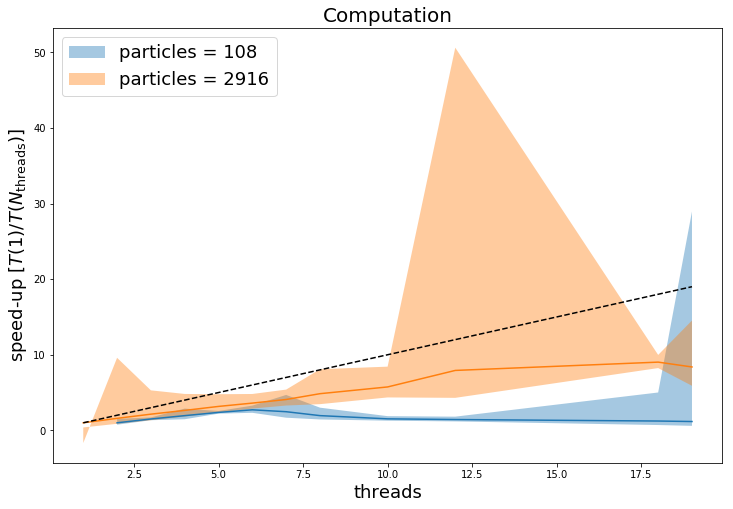
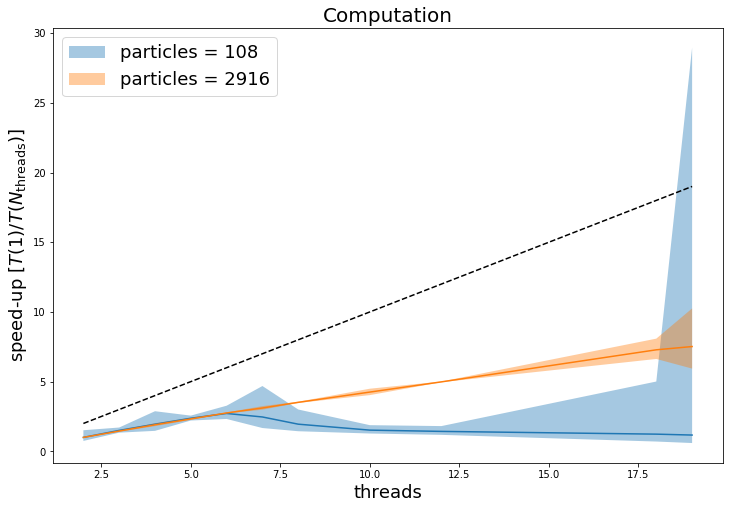
provided the correct plot for OpenMP's scaling and updated the README relative to OpenMP

diff --git a/README.md b/README.md
@@ -26,6 +26,6 @@ We compute the **strong scaling** by averaging over 10 runs number of threads, n
 
 We notice how, for a problem of small size (i.e. number of atoms = 108), there is a slight speedup up to 6 threads; afterwards, there is a noticeable decrease in the performance.
 
-On the contrary, for a problem of a bigger size (i.e. number of atoms = 2916), even though not ideal, the speedup increases quite evidently up to 12 threads and plateaus with 18 and 19 threads.
+On the contrary, for a problem of a bigger size (i.e. number of atoms = 2916), the speedup linearly increases up to 18 threads, with a slight plateau on 19 threads.
 
 The plot suggests that the difference in performance, given the two problem sizes, might be due to the communication time relative to the size itself: for a small problem size, the communications becomes relatively more expensive.
